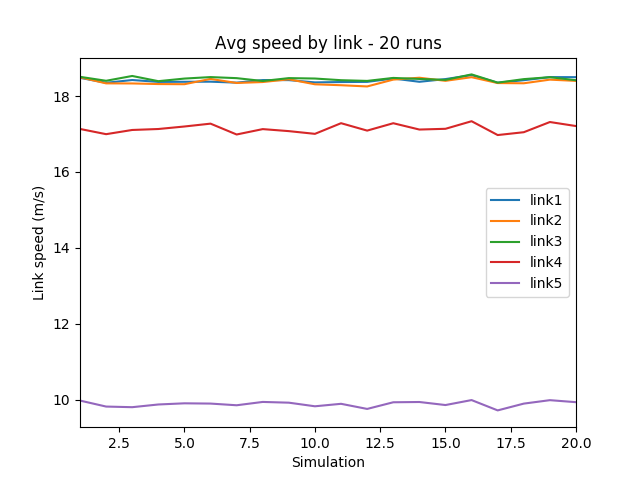
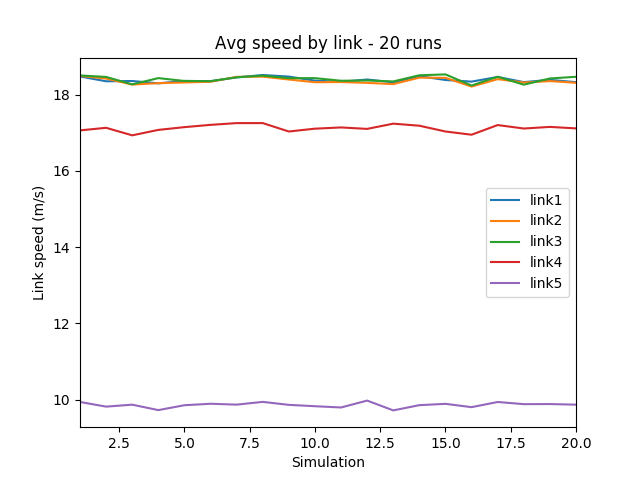
Use getLastStepMeanSpeed to calculate edge speed in scenarios 2 and 3

diff --git a/scenario2/sumo.py b/scenario2/sumo.py
@@ -69,7 +69,8 @@ for runs in range(number_runs):
             # Warm-up check (15 min threshold)
             if counter > 15:
                 for link in link_speeds:
-                    link_speeds[link].append(1000/traci.edge.getTraveltime(link))
+                    link_mean_speed = traci.edge.getLastStepMeanSpeed(link)
+                    link_speeds[link].append(link_mean_speed)
                 
                 vehicles_ids = traci.vehicle.getIDList()
                 speeds = []

diff --git a/scenario3/sumo.py b/scenario3/sumo.py
@@ -69,7 +69,8 @@ for runs in range(number_runs):
             # Warm-up check (15 min threshold)
             if counter > 15:
                 for link in link_speeds:
-                    link_speeds[link].append(1000/traci.edge.getTraveltime(link))
+                    link_mean_speed = traci.edge.getLastStepMeanSpeed(link)
+                    link_speeds[link].append(link_mean_speed)
                 
                 vehicles_ids = traci.vehicle.getIDList()
                 speeds = []
